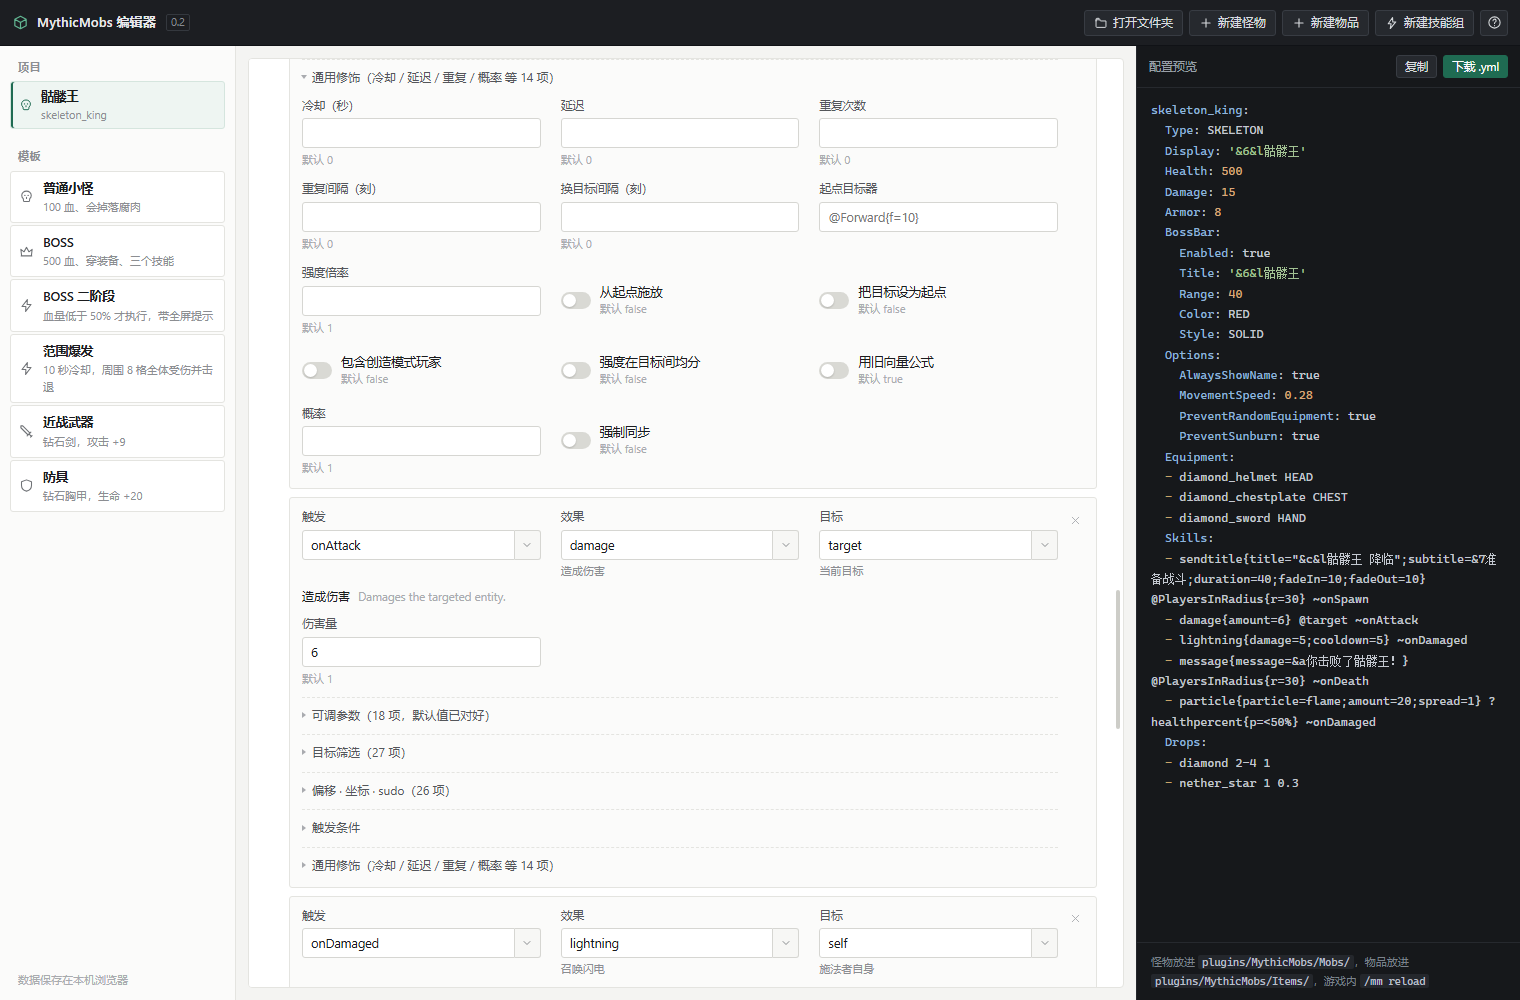
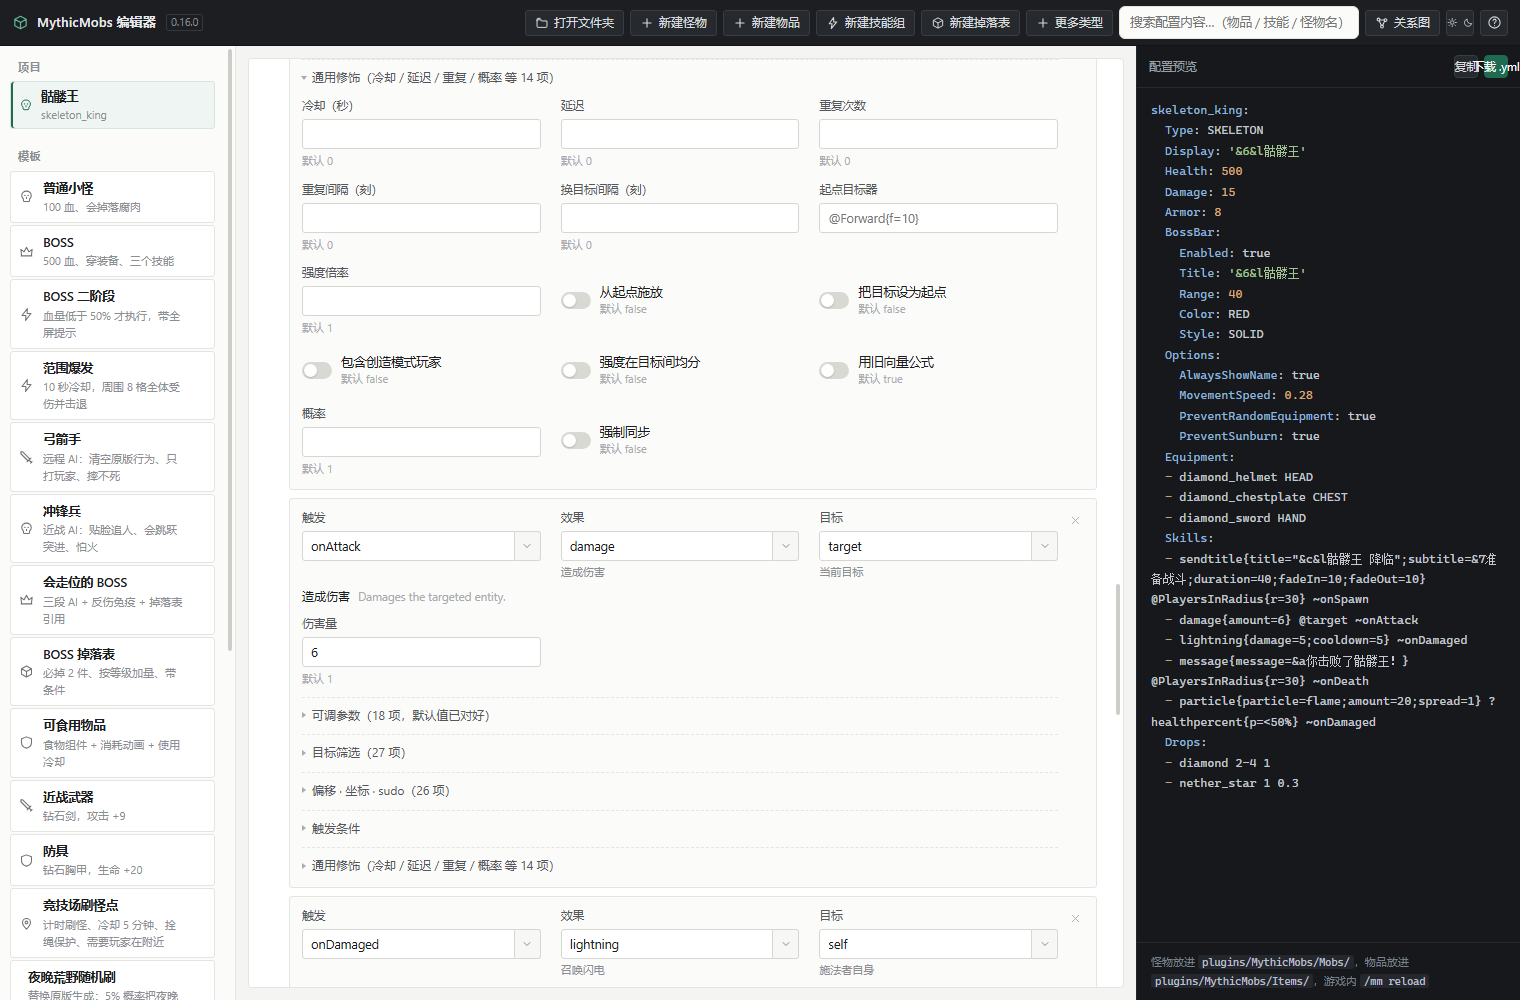
polish: 帮助文案更新 + 截图重截 + 窗口记忆 + 模板导出导入（0.17.0）
- helpModal 文案更新到当前状态（旧文案还写着「放出 21 个机制」）
- editor-mob / catalog-ui README 截图按 0.16.0 界面重截
- 窗口尺寸/位置记忆（userData/win-bounds.json，resize/move/close 落盘）
- 自定义模板导出 .json（Electron 保存对话框 / 浏览器下载）与导入
  （新 IPC dialog:openJson + state.addCustomTemplate 校验入库）
- e2e 145 项（模板导出按钮/导入入口用例）；版本 0.17.0

diff --git a/app/index.html b/app/index.html
@@ -12,7 +12,7 @@
   <div class="brand">
     <svg class="mark" width="17" height="17" viewBox="0 0 24 24" fill="none" stroke="currentColor" stroke-width="1.7" stroke-linecap="round" stroke-linejoin="round"><path d="M12 3.2l8 4.3v9L12 20.8l-8-4.3v-9zM4 7.5l8 4.4 8-4.4M12 11.9v8.9"/></svg>
     <span class="app-name">MythicMobs 编辑器</span>
-    <span class="app-ver" id="appVer">0.16.0</span>
+    <span class="app-ver" id="appVer">0.17.0</span>
   </div>
   <div class="top-actions">
     <button id="btnOpenFolder" class="btn dark" hidden>
@@ -110,21 +110,22 @@
       </button>
     </div>
     <ol class="help-steps">
-      <li>左边选一个模板，或点右上角「新建怪物 / 新建物品」。</li>
-      <li>中间填表格，右侧会实时生成配置文件。</li>
-      <li>点「下载 .yml」，把文件放进服务器对应目录，游戏里 <code>/mm reload</code>。</li>
+      <li>左边选一个模板（也可以点「存为模板」攒自己的），或点右上角「新建怪物 / 新建物品 / 更多类型」。</li>
+      <li>桌面版点「打开文件夹」选服务器的 <code>plugins/MythicMobs</code>，左侧直接列出全部配置，点谁编辑谁。</li>
+      <li>中间填表格，右侧实时生成配置；复制 YAML 或用「保存到服务器」直接落盘。</li>
+      <li>改完游戏里 <code>/mm reload</code> 就能生效。写错了没关系——<code>Ctrl+Z</code> 撤销，引用检查也会提醒。</li>
     </ol>
     <h3>几个名词</h3>
     <dl class="help-dl">
       <dt>ID</dt><dd>英文唯一名，服务器里用它刷怪，例如 <code>my_boss</code>，不能有空格和中文。</dd>
       <dt>触发器</dt><dd>什么时候执行，比如生成时、攻击时、死亡时。</dd>
-      <dt>效果</dt><dd>做什么，比如造成伤害、播放音效、发送消息。</dd>
+      <dt>效果</dt><dd>做什么，比如造成伤害、播放音效、发送消息。wiki 的 303 个机制 / 196 条件 / 91 目标器 / 38 触发器全部在「全量目录」里，中文搜索。</dd>
       <dt>目标</dt><dd>对谁做，比如自己、当前攻击目标、附近的玩家。</dd>
     </dl>
     <h3>占位符速查</h3>
     <p class="help-note">写消息 / 显示名时可用，点击复制。外面再包一层颜色如 <code>&lt;gold&gt;&lt;trigger.name&gt;&lt;/gold&gt;</code>。</p>
     <div id="phList" class="ph-list"></div>
-    <p class="help-note">测试版：怪物与物品的基础功能可用，技能目前放出 21 个常用机制，后续补齐全部 303 个。</p>
+    <p class="help-note">wiki 全量数据：302 机制 / 196 条件 / 91 目标器 / 38 触发器 / 120 粒子 / 51 AI 行为 / 14 AI 目标，9 种扩展配置类型（刷怪点、对话、过场镜头等）都有表单。</p>
   </div>
 </div>
 

diff --git a/app/js/app.js b/app/js/app.js
@@ -330,6 +330,60 @@
     toast("模板已删除");
   }
 
+  /* 0.17.0：模板导出 / 导入（换机器或分享给同服朋友） */
+  async function exportTemplate(id) {
+    const t = MM_STATE.customTemplates().find(function (x) { return x.id === id; });
+    if (!t) return;
+    const data = JSON.stringify(t, null, 2);
+    const fname = "模板-" + t.name + ".json";
+    if (window.MM_HOST && MM_HOST.isElectron) {
+      const p = await MM_HOST.saveAs(fname);
+      if (!p) return;
+      await MM_HOST.write(p, data);
+      toast("模板已导出到 " + p);
+    } else {
+      const blob = new Blob([data], { type: "application/json" });
+      const a = document.createElement("a");
+      a.href = URL.createObjectURL(blob);
+      a.download = fname;
+      a.click();
+      URL.revokeObjectURL(a.href);
+      toast("模板已导出");
+    }
+  }
+
+  async function importTemplate() {
+    let text = null;
+    if (window.MM_HOST && MM_HOST.isElectron && MM_HOST_OPEN_JSON) {
+      const p = await MM_HOST_OPEN_JSON();
+      if (!p) return;
+      text = (await MM_HOST.read(p)).text;
+    } else {
+      text = await new Promise(function (resolve) {
+        const inp = document.createElement("input");
+        inp.type = "file";
+        inp.accept = ".json,application/json";
+        inp.onchange = function () {
+          const f = inp.files[0];
+          if (!f) return resolve(null);
+          const r = new FileReader();
+          r.onload = function () { resolve(r.result); };
+          r.readAsText(f);
+        };
+        inp.click();
+      });
+      if (!text) return;
+    }
+    try {
+      const o = JSON.parse(text);
+      MM_STATE.addCustomTemplate(o);
+      MM_UI.renderTemplates($("templateList"), useTemplate, removeTemplate);
+      toast("已导入模板「" + o.name + "」");
+    } catch (e) {
+      toast("导入失败：" + e.message);
+    }
+  }
+
   function plainName(p) {
     return String(p.data.display || "").replace(/&[0-9a-fk-or]/gi, "").trim();
   }
@@ -770,7 +824,7 @@
     // 给空状态里的按钮用
     window.MM_APP = { new: newProject, template: useTemplate, download: download, refresh: refresh, select: selectProject,
       reload: reloadFromDisk, switchEntry: switchEntry, clone: cloneProject, saveAsTemplate: saveAsTemplate,
-      undo: doUndo, redo: doRedo, saveToServer: saveToServer };
+      undo: doUndo, redo: doRedo, saveToServer: saveToServer, exportTemplate: exportTemplate, importTemplate: importTemplate };
     restoreLastDir();
   }
 

diff --git a/electron/main.js b/electron/main.js
@@ -8,7 +8,13 @@ const YAML = require("yaml");
 let win = null;
 
 function createWindow() {
-  win = new BrowserWindow({
+  /* 0.17.0：记住窗口尺寸与位置（存 userData/win-bounds.json） */
+  let bounds = null;
+  try {
+    bounds = JSON.parse(fs.readFileSync(path.join(app.getPath("userData"), "win-bounds.json"), "utf8"));
+  } catch { /* 首次启动没有 */ }
+
+  win = new BrowserWindow(Object.assign({
     width: 1440,
     height: 920,
     minWidth: 1080,
@@ -22,7 +28,17 @@ function createWindow() {
       nodeIntegration: false,
       sandbox: false
     }
-  });
+  }, bounds && bounds.width > 400 ? { x: bounds.x, y: bounds.y, width: bounds.width, height: bounds.height } : {}));
+
+  const saveBounds = () => {
+    try {
+      fs.writeFileSync(path.join(app.getPath("userData"), "win-bounds.json"),
+        JSON.stringify(win.getBounds()), "utf8");
+    } catch { /* 忽略 */ }
+  };
+  win.on("resize", saveBounds);
+  win.on("move", saveBounds);
+  win.on("close", saveBounds);
   win.setMenuBarVisibility(false);
   win.loadFile(path.join(__dirname, "..", "app", "index.html"));
 }
@@ -196,6 +212,16 @@ ipcMain.handle("dialog:saveFile", async (_e, defaultName) => {
 
 ipcMain.handle("shell:showItem", async (_e, file) => {
   shell.showItemInFolder(file);
+});
+
+/* 模板导入（0.17.0）：选一个 .json 文件 */
+ipcMain.handle("dialog:openJson", async () => {
+  const r = await dialog.showOpenDialog(win, {
+    title: "导入模板",
+    filters: [{ name: "模板文件", extensions: ["json"] }],
+    properties: ["openFile"]
+  });
+  return r.canceled ? null : r.filePaths[0];
 });
 
 /* 备份清理（0.16.0）：递归找保存时产生的 *.bak-*，按修改时间升序 */

diff --git a/app/js/ui.js b/app/js/ui.js
@@ -377,10 +377,15 @@ window.MM_UI = (function () {
         ])
       ]));
     });
-    /* 0.13.0：用户自己的模板（可删除） */
+    /* 0.17.0：用户自己的模板（可导出分享、可删除） */
     const mine = (window.MM_STATE && MM_STATE.customTemplates) ? MM_STATE.customTemplates() : [];
     if (mine.length) {
-      container.appendChild(el("div", { class: "tpl-group", text: "我的模板" }));
+      const grp = el("div", { class: "tpl-group", text: "我的模板" });
+      grp.appendChild(el("button", {
+        class: "side-mini", text: "导入", type: "button", title: "从 .json 文件导入模板",
+        onclick: function (e) { e.stopPropagation(); window.MM_APP && MM_APP.importTemplate(); }
+      }));
+      container.appendChild(grp);
     }
     mine.forEach(function (t) {
       const btn = el("button", {
@@ -392,7 +397,11 @@ window.MM_UI = (function () {
           el("div", { class: "d", text: t.desc })
         ]),
         el("span", {
-          class: "tpl-del", title: "删除模板",
+          class: "tpl-del", title: "导出成 .json 文件（分享给别人 / 换机器）",
+          onclick: function (e) { e.stopPropagation(); window.MM_APP && MM_APP.exportTemplate(t.id); }
+        }, [svgSpan("download", 12)]),
+        el("span", {
+          class: "tpl-del tpl-del-danger", title: "删除模板",
           onclick: function (e) { e.stopPropagation(); onDelete && onDelete(t.id); }
         }, [svgSpan("trash", 12)])
       ]);

diff --git a/app/js/state.js b/app/js/state.js
@@ -679,6 +679,21 @@ window.MM_STATE = (function () {
     localStorage.setItem(TPL_KEY, JSON.stringify(list));
     return list;
   }
+  /* 导入的模板入库（0.17.0）：校验必要的字段，名字加标记防重名混乱 */
+  function addCustomTemplate(obj) {
+    if (!obj || typeof obj !== "object") throw new Error("模板格式不对");
+    if (!obj.name || !obj.kind || !obj.payload || !obj.payload.data) throw new Error("缺少 name / kind / payload");
+    const list = customTemplates();
+    list.unshift({
+      id: "ctpl_" + uid(),
+      name: String(obj.name) + "（导入）",
+      desc: String(obj.desc || ""),
+      kind: obj.kind,
+      payload: JSON.parse(JSON.stringify(obj.payload))
+    });
+    localStorage.setItem(TPL_KEY, JSON.stringify(list));
+    return list;
+  }
   /* 用自定义模板建项目：payload 恢复 + 走一遍与 load() 相同的兼容补齐 */
   function buildCustom(t) {
     const p = JSON.parse(JSON.stringify(t.payload));
@@ -790,7 +805,7 @@ window.MM_STATE = (function () {
     specOf: specOf, specKinds: specKinds, newSpecProject: newSpecProject,
     clone: clone,
     customTemplates: customTemplates, saveCustomTemplate: saveCustomTemplate,
-    removeCustomTemplate: removeCustomTemplate, buildCustom: buildCustom,
+    removeCustomTemplate: removeCustomTemplate, addCustomTemplate: addCustomTemplate, buildCustom: buildCustom,
     undo: undo, redo: redo, baselineSnap: baselineSnap
   };
 })();

diff --git a/app/style.css b/app/style.css
@@ -1037,3 +1037,9 @@ button.mini:hover { border-color: var(--accent); color: var(--accent); }
 .ph-row:hover { background: var(--accent-soft); }
 .ph-row code { font-family: ui-monospace, monospace; font-size: 12px; color: var(--ink); min-width: 180px; }
 .ph-row span { font-size: 12px; color: var(--ink-3); }
+
+
+/* 0.17.0 模板导出按钮 */
+.tpl-btn .tpl-del { right: 30px; }
+.tpl-btn .tpl-del.tpl-del-danger { right: 8px; }
+.tpl-group .side-mini { margin-left: 8px; }

diff --git a/electron/preload.js b/electron/preload.js
@@ -11,6 +11,7 @@ contextBridge.exposeInMainWorld("MM_HOST", {
   write: (file, text) => ipcRenderer.invoke("fs:write", file, text),
   saveAs: (name) => ipcRenderer.invoke("dialog:saveFile", name),
   reveal: (file) => ipcRenderer.invoke("shell:showItem", file),
+  openJson: () => ipcRenderer.invoke("dialog:openJson"),
   listBackups: (dir) => ipcRenderer.invoke("fs:listBackups", dir),
   deleteFiles: (paths) => ipcRenderer.invoke("fs:deleteFiles", paths)
 });

diff --git a/app/js/host.js b/app/js/host.js
@@ -247,6 +247,7 @@
   window.MM_HOST_OPEN_FILE = openFile;
 
   /* 备份清理（0.16.0）：列表 + 批量删除 */
+  window.MM_HOST_OPEN_JSON = function () { return MM_HOST.openJson(); };
   window.MM_HOST_BACKUPS = function (dir) { return MM_HOST.listBackups(dir); };
   window.MM_HOST_DELETE_FILES = function (paths) { return MM_HOST.deleteFiles(paths); };
   /* 当前扫过的服务器根目录（另存到服务器 / 备份清理用） */

diff --git a/README.md b/README.md
@@ -12,6 +12,8 @@
 
 0.9.0 补上**打包发布**：`npm run dist` 出 Windows 便携版单文件 exe，双击即用，不用装 Node 或运行时。
 
+0.17.0 是**打磨包**：使用说明的文案更新到当前状态（wiki 全量早已放出）；怪物编辑器与全量目录的 README 截图重截；窗口尺寸 / 位置自动记忆（关闭再开还在原位）；自定义模板支持**导出成 .json 分享给别人、再导入**（换机器同步也靠它）。
+
 0.16.0 是**文件与体验收尾**：①记住上次打开的服务器文件夹，启动自动恢复；②克隆 / 模板新建的项目头部多「**💾 保存到服务器**」，一键落盘成对应目录里的新文件（覆盖前照旧备份）；③侧栏「清理备份」按钮（默认保留最近 5 份）；④关系图顶部会**报警循环引用**——技能组互相引用成环服务端会递归卡死，现在打开关系图就能发现；⑤顶栏 ☀/☾ **深浅色主题切换**并记住偏好；⑥使用说明里加了**占位符速查**（触发者 / 施法者 / 目标 / 通用四组，点击复制）。
 
 0.15.0 补了两块可视化：顶栏**关系图**按钮打开「怪物 → 技能组 → 掉落表」的引用网（三列布局、悬停高亮相关连线、点节点直接打开文件，孤立的配置不画并单独计数；没开文件夹时用已打开的项目画）；掉落概率模拟的每一行加了**出货占比条**和合计期望件数，概率高低一眼看出。
@@ -134,7 +136,7 @@
 ![导入已有配置](docs/img/import-edit.png)
 
 **其他**
-- 20 个内置模板 + **自定义模板**（「存为模板」存进左侧「我的模板」，可管理删除）
+- 20 个内置模板 + **自定义模板**（「存为模板」存进左侧「我的模板」，可管理、删除、**导出 .json 分享 / 导入**）
 - **Ctrl+Z / Ctrl+Y 撤销重做**、一键克隆当前配置
 - 4 个功能开关示例、实时 YAML 预览与语法高亮
 - 选择器：点输入框列出全部选项（中文名 + 英文 ID），可搜索、可滚动、也可直接输入自定义 ID
@@ -186,7 +188,7 @@ tools/
   test_metaskill.mjs  技能组 + 目标器通用筛选 + 参数上下文中文（34 项）
   test_ai.mjs         AI 选择器 / 伤害修正 / 掉落三形态 / 掉落表 / 物品组件 / 引用检查（69 项）
   test_spec.mjs       通用字段引擎 + 9 种类型 / 三种文件形态 / 组件子键 / 掉落特效（127 项）
-  e2e.mjs             无头浏览器交互测试（143 项）
+  e2e.mjs             无头浏览器交互测试（145 项）
   e2e-electron.mjs    Electron 文件系统、导入写回、AI 拖拽、掉落表、引用检查、新类型读写、易用性三件套、引用影响、文件搜索、关系图与循环检测、另存与备份（81 项）
   smoke_packaged.mjs  打包形态冒烟（版本号 / 扫描 / 导入 / 写盘备份，8 项）
   make_icon.py        生成应用图标 build/icon.ico（Pillow 几何绘制，npm run icon）
@@ -205,12 +207,12 @@ node tools/test_catalog.mjs                    # 41  全量目录单测（不需
 node tools/test_metaskill.mjs                  # 34  技能组 / 通用筛选 / 参数中文（不需要浏览器）
 node tools/test_ai.mjs                         # 69  AI / 伤害修正 / 掉落 / 物品组件 / 引用检查（不需要浏览器）
 node tools/test_spec.mjs                       # 127  通用字段引擎 / 9 种类型 / 三种文件形态（不需要浏览器）
-node tools/e2e.mjs 9333 .                      # 143 界面测试（需先启动带 --remote-debugging-port 的 Edge/Electron）
+node tools/e2e.mjs 9333 .                      # 145 界面测试（需先启动带 --remote-debugging-port 的 Edge/Electron）
 node tools/e2e-electron.mjs 9350 tests/fixture-server   # 81  文件系统与导入测试（先 electron . --remote-debugging-port=9350）
 node tools/smoke_packaged.mjs 9351 tests/fixture-server # 8   打包形态冒烟（先给 dist 的 exe 传调试端口启动）
 ```
 
-`npm test` 会把前六条单测串起来跑。合计 **583 项**（单测 359 + 界面 224），全绿；打包后另跑 8 项冒烟。
+`npm test` 会把前六条单测串起来跑。合计 **585 项**（单测 359 + 界面 226），全绿；打包后另跑 8 项冒烟。
 
 ---
 

diff --git a/交接文档.md b/交接文档.md
@@ -1,7 +1,7 @@
 # MythicMobs Studio — 交接文档
 
 > 交接对象：接手继续开发的 AI / 开发者
-> 版本：**0.16.0**　｜　最后更新：2026-10-22
+> 版本：**0.17.0**　｜　最后更新：2026-10-22
 > 仓库根目录：`D:\下载\服务器\MythicMobsStudio`（路径含中文，脚本里注意编码）
 
 ---
@@ -52,7 +52,11 @@
   **坑**：备份文件名时间戳只到**秒**——同一秒内连写会互相覆盖成一份，e2e 连写要 sleep >1s；改 host.js/
   main.js 后 Electron 的**页面与主进程都要重启**（各管一半代码）；测试里用例自己写的文件必须清理，
   否则「扫描 8 个文件」这类计数断言会翻车。
-> 功能规划至此全部收口（RCON 按用户决定不做——安全性不好把控）。
+> **0.17.0 打磨包**：helpModal 文案更新（旧的还写着「放出 21 个机制」）；editor-mob / catalog-ui README 截图重截；
+  窗口 bounds 持久化（userData/win-bounds.json，resize/move/close 落盘）；自定义模板**导出 .json**（Electron 走
+  `dialog:saveFile`，浏览器走 Blob 下载）与**导入**（新 IPC `dialog:openJson`，`state.addCustomTemplate` 校验
+  name/kind/payload，名字自动加「（导入）」标记；UI 上「我的模板」组标题带导入按钮、每行导出+删除两个悬停按钮）。
+> 功能与打磨清单全部收口（RCON 按用户决定不做）。后续按实际使用反馈迭代。
 > 硬性约束：全中文 UI、不用 emoji 图标、不引入构建步骤、默认值必须与插件一致（详见 §5）。
 
 ---
